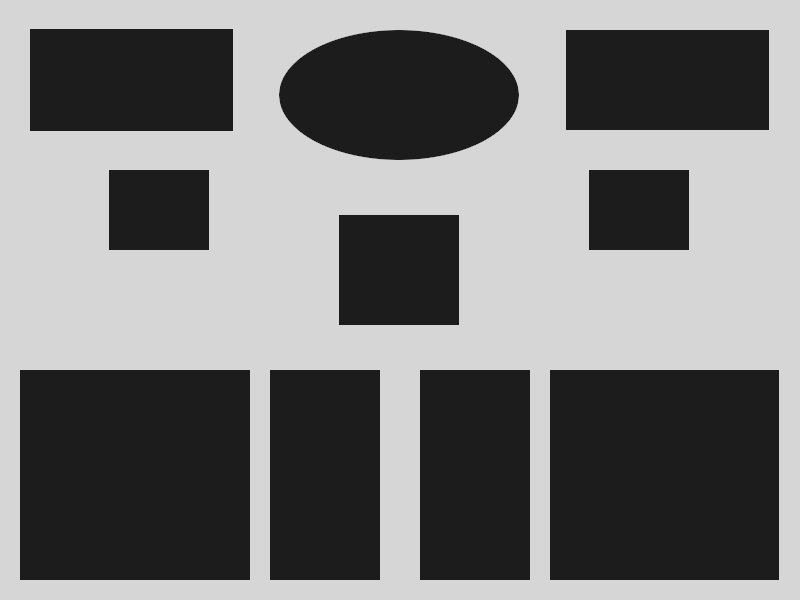
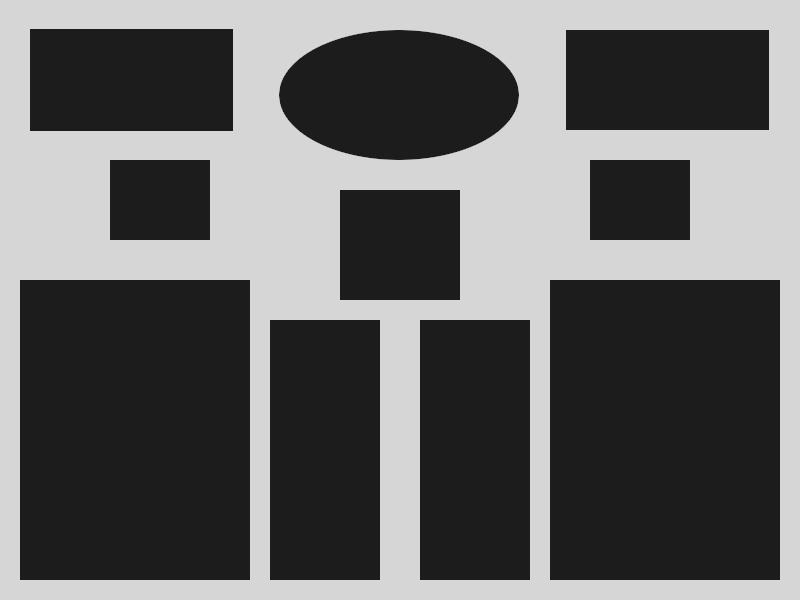
Updating players' positions and buttons and fixing those buttons.

diff --git a/src/main_window.py b/src/main_window.py
@@ -10,7 +10,7 @@ from player_panel import PlayerPanel
 
 WIDTH = 800
 HEIGHT = 600
-main_window = pyglet.window.Window(WIDTH, HEIGHT, "Handball Score Table", vsync=False, visible=False)
+main_window = pyglet.window.Window(WIDTH, HEIGHT, "Handball Score Table", vsync=True, visible=False)
 fps = pyglet.clock.ClockDisplay()
 cwd = os.getcwd()
 os.chdir(cwd[:len(cwd) - 3])  # todo this isn't quite right
@@ -23,13 +23,13 @@ main_window.set_visible(True)
 timer = countdown.Timer(WIDTH//2 - 92, HEIGHT//2 + 180, 60, 60 * 20)  # main timer
 time_out_timer = None  # time-out timer
 game_round = 1
-round_text = pyglet.text.Label(str(game_round), font_name="Calibri", font_size=90, x=340, y=276)
+round_text = pyglet.text.Label(str(game_round), font_name="Calibri", font_size=90, x=334, y=304)
 player_panel = None
 
 players1 = [Player("Simon", 1, "left"), Player("Teodor", 2, "left"), Player("player3", 3, "left")]
 players2 = [Player("player1", 4, "right"), Player("player2", 5, "right"), Player("player3", 6, "right"), Player("player4", 7, "right")]
-team1 = team.Team("Home", players1, 30, HEIGHT - 130, 110, 350)
-team2 = team.Team("Guest", players2, 565, HEIGHT - 130, 590, 350)
+team1 = team.Team("Home", players1, 30, HEIGHT - 130, 110, 362)
+team2 = team.Team("Guest", players2, 565, HEIGHT - 130, 590, 362)
 
 button1 = Button(360, 60, "first button", 14)
 buttons = ()
@@ -44,13 +44,13 @@ def show_round():
 
 def show_players(players):
     for i, player in enumerate(players):
-        player.render((-i + 8) * 25)
+        player.render((-i + 13) * 23)
 
 
 def show_suspended_players(players):
     suspended_players = list(filter(lambda player: player.suspended, players))
     for i, player in enumerate(suspended_players):
-        player.render_suspended((-len(suspended_players) + i + 9) * 25)
+        player.render_suspended((-len(suspended_players) + i + 12) * 23)
 
 
 def show_buttons():
@@ -70,22 +70,26 @@ def update_player_functionality(x, y):
     players: list = players1 + players2
     player_buttons = list(map(lambda player: player.get_button(), players))
 
+    if player_panel is not None:
+        if player_panel.update(x, y):
+            return  # to not check for other buttons bellow the panel
+
     for i, btn in enumerate(player_buttons):
         if btn.pressed(x, y):
             # print("player {}".format(i + 1))
             if players[i].select() == "selected":  # select the clicked player
                 player_panel = PlayerPanel(x, y, players[i])
                 if len(list(filter(lambda player: player.selected, players))) == 2:
-                    for j in range(len(players)):  # unselect the previous clicked player
-                        if j == i:
-                            continue
-                        if players[j].selected:
-                            players[j].select()
+                    Player.de_select(players, i)  # de-select previous clicked player
             else:
                 player_panel = None
 
-    if player_panel is not None:
-        player_panel.update(x, y)
+
+def init_player_buttons():
+    for i, player in enumerate(players1):
+        player.update_button(32, (-i + 13) * 23)
+    for i, player in enumerate(players2):
+        player.update_button(WIDTH - 238, (-i + 13) * 23)
 
 
 @main_window.event
@@ -130,7 +134,7 @@ def on_key_press(symbol, modifiers):
 @main_window.event
 def on_mouse_press(x, y, button, modifiers):
     if button == mouse.LEFT:
-        # print('The left mouse button was pressed at ({}, {}).'.format(x, y))
+        print('The left mouse button was pressed at ({}, {}).'.format(x, y))
         update_player_functionality(x, y)
 
 
@@ -143,13 +147,8 @@ def update(dt):
     if time_out_timer is not None and time_out_timer.finished:
         time_out_timer = None
         timer.start()
-    for i, player in enumerate(players1):
-        player.update_button(32, (-i + 8) * 25)
-    for i, player in enumerate(players2):
-        player.update_button(WIDTH - 238, (-i + 8) * 25)
     team1.update()
     team2.update()
-    # print(players1[0].suspended)
 
 
 @main_window.event
@@ -170,5 +169,6 @@ def on_draw():
     fps.draw()
 
 
-pyglet.clock.schedule_interval(update, 1/60)
+init_player_buttons()
 pyglet.clock.set_fps_limit(60)
+pyglet.clock.schedule_interval(update, 1/60)

diff --git a/src/player.py b/src/player.py
@@ -12,10 +12,10 @@ class Player:
         self.button = None
         self.player_text = pyglet.text.Label("{}[{}]".format(self.name, self.id),
                                              font_name="Calibri",
-                                             font_size=20)
+                                             font_size=18)
         self.suspend_text = pyglet.text.Label("[{}]".format(self.id),
                                               font_name="Calibri",
-                                              font_size=20)
+                                              font_size=18)
         self.suspend_timer = None
         self.selected = False
 
@@ -44,7 +44,7 @@ class Player:
     def suspend(self):
         if not self.suspended:
             self.suspended = True
-            self.suspend_timer = countdown.Timer(314 if self.team == "left" else 464, -100, 20, 60 * 2)  # not that good
+            self.suspend_timer = countdown.Timer(314 if self.team == "left" else 464, -100, 20, 60 * 2)  # todo not that good
             self.suspend_timer.start()
 
     def release(self):
@@ -68,3 +68,11 @@ class Player:
 
     def get_button(self):
         return self.button
+
+    @staticmethod
+    def de_select(players, j):
+        for i in range(len(players)):
+            if j == i:
+                continue
+            if players[i].selected:
+                players[i].select()

diff --git a/src/player_panel.py b/src/player_panel.py
@@ -7,8 +7,8 @@ class PlayerPanel:
         self.x = x
         self.y = y
         self.player = player
-        self.suspend_button = Button(x + 15, y + 30, "Suspend player", 16, (255, 16, 16, 255), True)
-        self.release_button = Button(x + 15, y + 30 - 25, "Release player", 16, (255, 16, 16, 255), True)
+        self.suspend_button = Button(x + 20, y + 30, "Suspend player", 16, (255, 16, 16, 255), True)
+        self.release_button = Button(x + 20, y + 30 - 25, "Release player", 16, (255, 16, 16, 255), True)
         self.width = 160
         self.height = 50
 
@@ -17,8 +17,11 @@ class PlayerPanel:
         self.suspend_button.render()
         self.release_button.render()
 
-    def update(self, x, y):
+    def update(self, x, y) -> bool:  # returns bool to not check for other buttons bellow the panel
         if self.suspend_button.pressed(x, y):
             self.player.suspend()
+            return True
         elif self.release_button.pressed(x, y):
             self.player.release()
+            return True
+        return False
